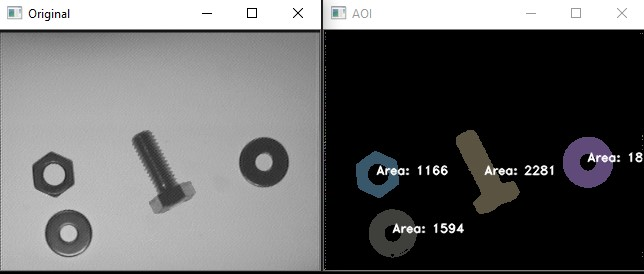
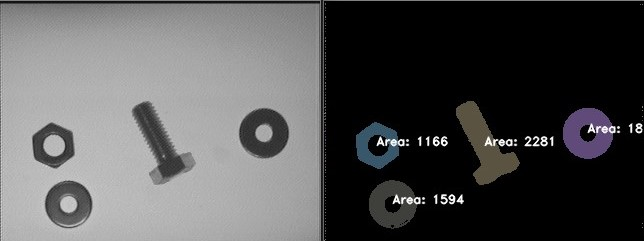
Update Object Classification and something

diff --git a/codes/Object Classification.cpp b/codes/Object Classification.cpp
@@ -74,7 +74,7 @@ vector<vector<float>> ExtractFeatures(Mat pre, vector<int> *left = NULL, vector<
 	return output;
 }
 
-bool readFolderAndExtractFeatures(String folder, Mat pattern, int label, int numberOfTest,
+bool readFolderAndExtractFeatures(const char *folder, Mat pattern, int label, int numberOfTest,
 								  vector<float> &trainingData, vector<int> &responsesData,
 								  vector<float> &testData, vector<float> &testResponsesData) {
 	VideoCapture images;
@@ -84,10 +84,10 @@ bool readFolderAndExtractFeatures(String folder, Mat pattern, int label, int num
 		return false;
 	}
 
-	Mat frame;
 	cout << endl;
+	Mat frame;
 	for(int imageIndex = 0; images.read(frame); imageIndex += 1) {
-		cout << format("\r Capturing %03d from ", imageIndex) << folder;
+		cout << format("\r %03d captured from %s", imageIndex, folder);
 		Mat pre = preprocess(frame, pattern);
 		vector<vector<float>> features = ExtractFeatures(pre);
 		for(int i = 0; i < features.size(); i++) {
@@ -105,7 +105,7 @@ bool readFolderAndExtractFeatures(String folder, Mat pattern, int label, int num
 	return true;
 }
 
-void trainAndTest(Mat pattern) {
+Ptr<SVM> trainAndTest(Mat pattern) {
 	vector< float > trainingData;
 	vector< int > responsesData;
 	vector< float > testData;
@@ -145,8 +145,9 @@ void trainAndTest(Mat pattern) {
 		// Error calculation
 		Mat errorMat = testPredict != testResponses;
 		float error = 100.0f * countNonZero(errorMat) / testResponsesData.size();
-		cout << " Error: " << error << "%%" << endl;
+		cout << " Error: " << error << "%" << endl;
 	}
+	return svm;
 }
 
 int main(int argc, const char **argv) {
@@ -155,7 +156,7 @@ int main(int argc, const char **argv) {
 		return EXIT_FAILURE;
 	}
 
-	Mat image = imread(argv[1], IMREAD_GRAYSCALE);
+	Mat image = imread(argv[1]);
 	Mat pattern = imread(argv[2], IMREAD_GRAYSCALE);
 
 	if(image.empty()) {
@@ -169,7 +170,29 @@ int main(int argc, const char **argv) {
 	}
 	medianBlur(pattern, pattern, 3);
 
-	trainAndTest(pattern);
+	Ptr<SVM> svm = trainAndTest(pattern);
+
+	Mat pre = preprocess(image, pattern);
+
+	vector<int> pos_left, pos_top;
+	vector<vector<float>> features = ExtractFeatures(pre, &pos_left, &pos_top);
+	cout << " Number of objects detected: " << features.size() << endl;
+	imshow("asd", image);
+	for(int i = 0; i < features.size(); i++) {
+		Mat trainingDataMat(1, 2, CV_32FC1, &features[i][0]);
+		float result = svm->predict(trainingDataMat);
+
+		stringstream ss;
+		if(result == 0) {
+			putText(image, "Nut", Point2d(pos_left[i], pos_top[i]), FONT_HERSHEY_DUPLEX, .5, Scalar(255, 255, 0));
+		} else if(result == 1) {
+			putText(image, "Ring", Point2d(pos_left[i], pos_top[i]), FONT_HERSHEY_DUPLEX, .5, Scalar(0, 255, 255));
+		} else if(result == 2) {
+			putText(image, "Screw", Point2d(pos_left[i], pos_top[i]), FONT_HERSHEY_DUPLEX, .5, Scalar(255, 0, 255));
+		}
+	}
+	namedWindow("Image", WINDOW_FREERATIO);
+	imshow("Image", image);
 	waitKey(0);
 	return EXIT_SUCCESS;
 }

diff --git a/README.md b/README.md
@@ -2,3 +2,6 @@
 
 - ### Automated Optical Inspection ( AOI ) 
 ![](outputs/output_AOI.jpg)
+
+- ### Object Classification with SVM and AOI 
+![](outputs/output_object_classification.jpg)
